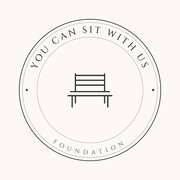
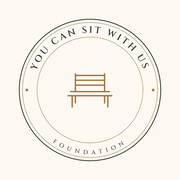
Adopt gold-accent seal (C1) across site
Claude-Session: https://claude.ai/code/session_013MXF8bArcGKn4r85BZznHa

diff --git a/index.html b/index.html
@@ -57,13 +57,13 @@
     <div class="wrap narrow symbol-inner">
       <svg class="seal seal-sym" viewBox="0 0 600 600" role="img" aria-label="You Can Sit With Us Foundation seal">
 <defs><path id="st-sym" d="M 88 300 A 212 212 0 0 1 512 300"/><path id="sb-sym" d="M 62 300 A 238 238 0 0 0 538 300"/></defs>
-<circle cx="300" cy="300" r="262" fill="none" stroke="currentColor" stroke-width="2.5"/>
-<circle cx="300" cy="300" r="250" fill="none" stroke="currentColor" stroke-width="1" opacity=".6"/>
-<circle cx="300" cy="300" r="196" fill="none" stroke="currentColor" stroke-width="1" opacity=".6"/>
-<text fill="currentColor" font-size="34" font-weight="500" letter-spacing="7"><textPath href="#st-sym" startOffset="50%" text-anchor="middle">YOU CAN SIT WITH US</textPath></text>
-<text fill="currentColor" font-size="22" letter-spacing="14"><textPath href="#sb-sym" startOffset="50%" text-anchor="middle">FOUNDATION</textPath></text>
-<circle cx="66" cy="300" r="4" fill="currentColor"/><circle cx="534" cy="300" r="4" fill="currentColor"/>
-<g transform="translate(204 228) scale(3)" fill="none" stroke="currentColor" stroke-width="1.5" stroke-linecap="round" stroke-linejoin="round"><path d="M14 4v22M50 4v22M14 6h36M14 12h36M14 18h36M8 26h48M5 31h54M10 31v14M54 31v14M14 31v9M50 31v9"/></g>
+<circle cx="300" cy="300" r="262" fill="none" stroke="currentColor" stroke-width="3"/>
+<circle cx="300" cy="300" r="250" fill="none" stroke="var(--seal-accent)" stroke-width="1.5"/>
+<circle cx="300" cy="300" r="196" fill="none" stroke="var(--seal-accent)" stroke-width="1.5"/>
+<text fill="currentColor" font-size="34" font-weight="600" letter-spacing="7"><textPath href="#st-sym" startOffset="50%" text-anchor="middle">YOU CAN SIT WITH US</textPath></text>
+<text fill="currentColor" font-size="22" font-weight="500" letter-spacing="14"><textPath href="#sb-sym" startOffset="50%" text-anchor="middle">FOUNDATION</textPath></text>
+<circle cx="66" cy="300" r="5" fill="var(--seal-accent)"/><circle cx="534" cy="300" r="5" fill="var(--seal-accent)"/>
+<g transform="translate(204 228) scale(3)" fill="none" stroke="var(--seal-accent)" stroke-width="1.7" stroke-linecap="round" stroke-linejoin="round"><path d="M14 4v22M50 4v22M14 6h36M14 12h36M14 18h36M8 26h48M5 31h54M10 31v14M54 31v14M14 31v9M50 31v9"/></g>
 </svg>
       <p class="eyebrow">Our symbol</p>
       <h2>There&rsquo;s always room on the bench.</h2>
@@ -139,13 +139,13 @@
     <div>
       <a class="brand-seal" href="index.html" aria-label="You Can Sit With Us Foundation home"><svg class="seal seal-foot" viewBox="0 0 600 600" role="img" aria-label="You Can Sit With Us Foundation seal">
 <defs><path id="st-foot" d="M 88 300 A 212 212 0 0 1 512 300"/><path id="sb-foot" d="M 62 300 A 238 238 0 0 0 538 300"/></defs>
-<circle cx="300" cy="300" r="262" fill="none" stroke="currentColor" stroke-width="2.5"/>
-<circle cx="300" cy="300" r="250" fill="none" stroke="currentColor" stroke-width="1" opacity=".6"/>
-<circle cx="300" cy="300" r="196" fill="none" stroke="currentColor" stroke-width="1" opacity=".6"/>
-<text fill="currentColor" font-size="34" font-weight="500" letter-spacing="7"><textPath href="#st-foot" startOffset="50%" text-anchor="middle">YOU CAN SIT WITH US</textPath></text>
-<text fill="currentColor" font-size="22" letter-spacing="14"><textPath href="#sb-foot" startOffset="50%" text-anchor="middle">FOUNDATION</textPath></text>
-<circle cx="66" cy="300" r="4" fill="currentColor"/><circle cx="534" cy="300" r="4" fill="currentColor"/>
-<g transform="translate(204 228) scale(3)" fill="none" stroke="currentColor" stroke-width="1.5" stroke-linecap="round" stroke-linejoin="round"><path d="M14 4v22M50 4v22M14 6h36M14 12h36M14 18h36M8 26h48M5 31h54M10 31v14M54 31v14M14 31v9M50 31v9"/></g>
+<circle cx="300" cy="300" r="262" fill="none" stroke="currentColor" stroke-width="3"/>
+<circle cx="300" cy="300" r="250" fill="none" stroke="var(--seal-accent)" stroke-width="1.5"/>
+<circle cx="300" cy="300" r="196" fill="none" stroke="var(--seal-accent)" stroke-width="1.5"/>
+<text fill="currentColor" font-size="34" font-weight="600" letter-spacing="7"><textPath href="#st-foot" startOffset="50%" text-anchor="middle">YOU CAN SIT WITH US</textPath></text>
+<text fill="currentColor" font-size="22" font-weight="500" letter-spacing="14"><textPath href="#sb-foot" startOffset="50%" text-anchor="middle">FOUNDATION</textPath></text>
+<circle cx="66" cy="300" r="5" fill="var(--seal-accent)"/><circle cx="534" cy="300" r="5" fill="var(--seal-accent)"/>
+<g transform="translate(204 228) scale(3)" fill="none" stroke="var(--seal-accent)" stroke-width="1.7" stroke-linecap="round" stroke-linejoin="round"><path d="M14 4v22M50 4v22M14 6h36M14 12h36M14 18h36M8 26h48M5 31h54M10 31v14M54 31v14M14 31v9M50 31v9"/></g>
 </svg></a>
       <p class="muted">Because everyone deserves a seat at the table.</p>
     </div>

diff --git a/404.html b/404.html
@@ -52,13 +52,13 @@
     <div>
       <a class="brand-seal" href="index.html" aria-label="You Can Sit With Us Foundation home"><svg class="seal seal-foot" viewBox="0 0 600 600" role="img" aria-label="You Can Sit With Us Foundation seal">
 <defs><path id="st-foot" d="M 88 300 A 212 212 0 0 1 512 300"/><path id="sb-foot" d="M 62 300 A 238 238 0 0 0 538 300"/></defs>
-<circle cx="300" cy="300" r="262" fill="none" stroke="currentColor" stroke-width="2.5"/>
-<circle cx="300" cy="300" r="250" fill="none" stroke="currentColor" stroke-width="1" opacity=".6"/>
-<circle cx="300" cy="300" r="196" fill="none" stroke="currentColor" stroke-width="1" opacity=".6"/>
-<text fill="currentColor" font-size="34" font-weight="500" letter-spacing="7"><textPath href="#st-foot" startOffset="50%" text-anchor="middle">YOU CAN SIT WITH US</textPath></text>
-<text fill="currentColor" font-size="22" letter-spacing="14"><textPath href="#sb-foot" startOffset="50%" text-anchor="middle">FOUNDATION</textPath></text>
-<circle cx="66" cy="300" r="4" fill="currentColor"/><circle cx="534" cy="300" r="4" fill="currentColor"/>
-<g transform="translate(204 228) scale(3)" fill="none" stroke="currentColor" stroke-width="1.5" stroke-linecap="round" stroke-linejoin="round"><path d="M14 4v22M50 4v22M14 6h36M14 12h36M14 18h36M8 26h48M5 31h54M10 31v14M54 31v14M14 31v9M50 31v9"/></g>
+<circle cx="300" cy="300" r="262" fill="none" stroke="currentColor" stroke-width="3"/>
+<circle cx="300" cy="300" r="250" fill="none" stroke="var(--seal-accent)" stroke-width="1.5"/>
+<circle cx="300" cy="300" r="196" fill="none" stroke="var(--seal-accent)" stroke-width="1.5"/>
+<text fill="currentColor" font-size="34" font-weight="600" letter-spacing="7"><textPath href="#st-foot" startOffset="50%" text-anchor="middle">YOU CAN SIT WITH US</textPath></text>
+<text fill="currentColor" font-size="22" font-weight="500" letter-spacing="14"><textPath href="#sb-foot" startOffset="50%" text-anchor="middle">FOUNDATION</textPath></text>
+<circle cx="66" cy="300" r="5" fill="var(--seal-accent)"/><circle cx="534" cy="300" r="5" fill="var(--seal-accent)"/>
+<g transform="translate(204 228) scale(3)" fill="none" stroke="var(--seal-accent)" stroke-width="1.7" stroke-linecap="round" stroke-linejoin="round"><path d="M14 4v22M50 4v22M14 6h36M14 12h36M14 18h36M8 26h48M5 31h54M10 31v14M54 31v14M14 31v9M50 31v9"/></g>
 </svg></a>
       <p class="muted">Because everyone deserves a seat at the table.</p>
     </div>

diff --git a/about.html b/about.html
@@ -94,13 +94,13 @@
     <div>
       <a class="brand-seal" href="index.html" aria-label="You Can Sit With Us Foundation home"><svg class="seal seal-foot" viewBox="0 0 600 600" role="img" aria-label="You Can Sit With Us Foundation seal">
 <defs><path id="st-foot" d="M 88 300 A 212 212 0 0 1 512 300"/><path id="sb-foot" d="M 62 300 A 238 238 0 0 0 538 300"/></defs>
-<circle cx="300" cy="300" r="262" fill="none" stroke="currentColor" stroke-width="2.5"/>
-<circle cx="300" cy="300" r="250" fill="none" stroke="currentColor" stroke-width="1" opacity=".6"/>
-<circle cx="300" cy="300" r="196" fill="none" stroke="currentColor" stroke-width="1" opacity=".6"/>
-<text fill="currentColor" font-size="34" font-weight="500" letter-spacing="7"><textPath href="#st-foot" startOffset="50%" text-anchor="middle">YOU CAN SIT WITH US</textPath></text>
-<text fill="currentColor" font-size="22" letter-spacing="14"><textPath href="#sb-foot" startOffset="50%" text-anchor="middle">FOUNDATION</textPath></text>
-<circle cx="66" cy="300" r="4" fill="currentColor"/><circle cx="534" cy="300" r="4" fill="currentColor"/>
-<g transform="translate(204 228) scale(3)" fill="none" stroke="currentColor" stroke-width="1.5" stroke-linecap="round" stroke-linejoin="round"><path d="M14 4v22M50 4v22M14 6h36M14 12h36M14 18h36M8 26h48M5 31h54M10 31v14M54 31v14M14 31v9M50 31v9"/></g>
+<circle cx="300" cy="300" r="262" fill="none" stroke="currentColor" stroke-width="3"/>
+<circle cx="300" cy="300" r="250" fill="none" stroke="var(--seal-accent)" stroke-width="1.5"/>
+<circle cx="300" cy="300" r="196" fill="none" stroke="var(--seal-accent)" stroke-width="1.5"/>
+<text fill="currentColor" font-size="34" font-weight="600" letter-spacing="7"><textPath href="#st-foot" startOffset="50%" text-anchor="middle">YOU CAN SIT WITH US</textPath></text>
+<text fill="currentColor" font-size="22" font-weight="500" letter-spacing="14"><textPath href="#sb-foot" startOffset="50%" text-anchor="middle">FOUNDATION</textPath></text>
+<circle cx="66" cy="300" r="5" fill="var(--seal-accent)"/><circle cx="534" cy="300" r="5" fill="var(--seal-accent)"/>
+<g transform="translate(204 228) scale(3)" fill="none" stroke="var(--seal-accent)" stroke-width="1.7" stroke-linecap="round" stroke-linejoin="round"><path d="M14 4v22M50 4v22M14 6h36M14 12h36M14 18h36M8 26h48M5 31h54M10 31v14M54 31v14M14 31v9M50 31v9"/></g>
 </svg></a>
       <p class="muted">Because everyone deserves a seat at the table.</p>
     </div>

diff --git a/contact.html b/contact.html
@@ -67,13 +67,13 @@
     <div>
       <a class="brand-seal" href="index.html" aria-label="You Can Sit With Us Foundation home"><svg class="seal seal-foot" viewBox="0 0 600 600" role="img" aria-label="You Can Sit With Us Foundation seal">
 <defs><path id="st-foot" d="M 88 300 A 212 212 0 0 1 512 300"/><path id="sb-foot" d="M 62 300 A 238 238 0 0 0 538 300"/></defs>
-<circle cx="300" cy="300" r="262" fill="none" stroke="currentColor" stroke-width="2.5"/>
-<circle cx="300" cy="300" r="250" fill="none" stroke="currentColor" stroke-width="1" opacity=".6"/>
-<circle cx="300" cy="300" r="196" fill="none" stroke="currentColor" stroke-width="1" opacity=".6"/>
-<text fill="currentColor" font-size="34" font-weight="500" letter-spacing="7"><textPath href="#st-foot" startOffset="50%" text-anchor="middle">YOU CAN SIT WITH US</textPath></text>
-<text fill="currentColor" font-size="22" letter-spacing="14"><textPath href="#sb-foot" startOffset="50%" text-anchor="middle">FOUNDATION</textPath></text>
-<circle cx="66" cy="300" r="4" fill="currentColor"/><circle cx="534" cy="300" r="4" fill="currentColor"/>
-<g transform="translate(204 228) scale(3)" fill="none" stroke="currentColor" stroke-width="1.5" stroke-linecap="round" stroke-linejoin="round"><path d="M14 4v22M50 4v22M14 6h36M14 12h36M14 18h36M8 26h48M5 31h54M10 31v14M54 31v14M14 31v9M50 31v9"/></g>
+<circle cx="300" cy="300" r="262" fill="none" stroke="currentColor" stroke-width="3"/>
+<circle cx="300" cy="300" r="250" fill="none" stroke="var(--seal-accent)" stroke-width="1.5"/>
+<circle cx="300" cy="300" r="196" fill="none" stroke="var(--seal-accent)" stroke-width="1.5"/>
+<text fill="currentColor" font-size="34" font-weight="600" letter-spacing="7"><textPath href="#st-foot" startOffset="50%" text-anchor="middle">YOU CAN SIT WITH US</textPath></text>
+<text fill="currentColor" font-size="22" font-weight="500" letter-spacing="14"><textPath href="#sb-foot" startOffset="50%" text-anchor="middle">FOUNDATION</textPath></text>
+<circle cx="66" cy="300" r="5" fill="var(--seal-accent)"/><circle cx="534" cy="300" r="5" fill="var(--seal-accent)"/>
+<g transform="translate(204 228) scale(3)" fill="none" stroke="var(--seal-accent)" stroke-width="1.7" stroke-linecap="round" stroke-linejoin="round"><path d="M14 4v22M50 4v22M14 6h36M14 12h36M14 18h36M8 26h48M5 31h54M10 31v14M54 31v14M14 31v9M50 31v9"/></g>
 </svg></a>
       <p class="muted">Because everyone deserves a seat at the table.</p>
     </div>

diff --git a/donate.html b/donate.html
@@ -70,13 +70,13 @@
     <div>
       <a class="brand-seal" href="index.html" aria-label="You Can Sit With Us Foundation home"><svg class="seal seal-foot" viewBox="0 0 600 600" role="img" aria-label="You Can Sit With Us Foundation seal">
 <defs><path id="st-foot" d="M 88 300 A 212 212 0 0 1 512 300"/><path id="sb-foot" d="M 62 300 A 238 238 0 0 0 538 300"/></defs>
-<circle cx="300" cy="300" r="262" fill="none" stroke="currentColor" stroke-width="2.5"/>
-<circle cx="300" cy="300" r="250" fill="none" stroke="currentColor" stroke-width="1" opacity=".6"/>
-<circle cx="300" cy="300" r="196" fill="none" stroke="currentColor" stroke-width="1" opacity=".6"/>
-<text fill="currentColor" font-size="34" font-weight="500" letter-spacing="7"><textPath href="#st-foot" startOffset="50%" text-anchor="middle">YOU CAN SIT WITH US</textPath></text>
-<text fill="currentColor" font-size="22" letter-spacing="14"><textPath href="#sb-foot" startOffset="50%" text-anchor="middle">FOUNDATION</textPath></text>
-<circle cx="66" cy="300" r="4" fill="currentColor"/><circle cx="534" cy="300" r="4" fill="currentColor"/>
-<g transform="translate(204 228) scale(3)" fill="none" stroke="currentColor" stroke-width="1.5" stroke-linecap="round" stroke-linejoin="round"><path d="M14 4v22M50 4v22M14 6h36M14 12h36M14 18h36M8 26h48M5 31h54M10 31v14M54 31v14M14 31v9M50 31v9"/></g>
+<circle cx="300" cy="300" r="262" fill="none" stroke="currentColor" stroke-width="3"/>
+<circle cx="300" cy="300" r="250" fill="none" stroke="var(--seal-accent)" stroke-width="1.5"/>
+<circle cx="300" cy="300" r="196" fill="none" stroke="var(--seal-accent)" stroke-width="1.5"/>
+<text fill="currentColor" font-size="34" font-weight="600" letter-spacing="7"><textPath href="#st-foot" startOffset="50%" text-anchor="middle">YOU CAN SIT WITH US</textPath></text>
+<text fill="currentColor" font-size="22" font-weight="500" letter-spacing="14"><textPath href="#sb-foot" startOffset="50%" text-anchor="middle">FOUNDATION</textPath></text>
+<circle cx="66" cy="300" r="5" fill="var(--seal-accent)"/><circle cx="534" cy="300" r="5" fill="var(--seal-accent)"/>
+<g transform="translate(204 228) scale(3)" fill="none" stroke="var(--seal-accent)" stroke-width="1.7" stroke-linecap="round" stroke-linejoin="round"><path d="M14 4v22M50 4v22M14 6h36M14 12h36M14 18h36M8 26h48M5 31h54M10 31v14M54 31v14M14 31v9M50 31v9"/></g>
 </svg></a>
       <p class="muted">Because everyone deserves a seat at the table.</p>
     </div>

diff --git a/get-involved.html b/get-involved.html
@@ -84,13 +84,13 @@
     <div>
       <a class="brand-seal" href="index.html" aria-label="You Can Sit With Us Foundation home"><svg class="seal seal-foot" viewBox="0 0 600 600" role="img" aria-label="You Can Sit With Us Foundation seal">
 <defs><path id="st-foot" d="M 88 300 A 212 212 0 0 1 512 300"/><path id="sb-foot" d="M 62 300 A 238 238 0 0 0 538 300"/></defs>
-<circle cx="300" cy="300" r="262" fill="none" stroke="currentColor" stroke-width="2.5"/>
-<circle cx="300" cy="300" r="250" fill="none" stroke="currentColor" stroke-width="1" opacity=".6"/>
-<circle cx="300" cy="300" r="196" fill="none" stroke="currentColor" stroke-width="1" opacity=".6"/>
-<text fill="currentColor" font-size="34" font-weight="500" letter-spacing="7"><textPath href="#st-foot" startOffset="50%" text-anchor="middle">YOU CAN SIT WITH US</textPath></text>
-<text fill="currentColor" font-size="22" letter-spacing="14"><textPath href="#sb-foot" startOffset="50%" text-anchor="middle">FOUNDATION</textPath></text>
-<circle cx="66" cy="300" r="4" fill="currentColor"/><circle cx="534" cy="300" r="4" fill="currentColor"/>
-<g transform="translate(204 228) scale(3)" fill="none" stroke="currentColor" stroke-width="1.5" stroke-linecap="round" stroke-linejoin="round"><path d="M14 4v22M50 4v22M14 6h36M14 12h36M14 18h36M8 26h48M5 31h54M10 31v14M54 31v14M14 31v9M50 31v9"/></g>
+<circle cx="300" cy="300" r="262" fill="none" stroke="currentColor" stroke-width="3"/>
+<circle cx="300" cy="300" r="250" fill="none" stroke="var(--seal-accent)" stroke-width="1.5"/>
+<circle cx="300" cy="300" r="196" fill="none" stroke="var(--seal-accent)" stroke-width="1.5"/>
+<text fill="currentColor" font-size="34" font-weight="600" letter-spacing="7"><textPath href="#st-foot" startOffset="50%" text-anchor="middle">YOU CAN SIT WITH US</textPath></text>
+<text fill="currentColor" font-size="22" font-weight="500" letter-spacing="14"><textPath href="#sb-foot" startOffset="50%" text-anchor="middle">FOUNDATION</textPath></text>
+<circle cx="66" cy="300" r="5" fill="var(--seal-accent)"/><circle cx="534" cy="300" r="5" fill="var(--seal-accent)"/>
+<g transform="translate(204 228) scale(3)" fill="none" stroke="var(--seal-accent)" stroke-width="1.7" stroke-linecap="round" stroke-linejoin="round"><path d="M14 4v22M50 4v22M14 6h36M14 12h36M14 18h36M8 26h48M5 31h54M10 31v14M54 31v14M14 31v9M50 31v9"/></g>
 </svg></a>
       <p class="muted">Because everyone deserves a seat at the table.</p>
     </div>

diff --git a/programs.html b/programs.html
@@ -88,13 +88,13 @@
     <div>
       <a class="brand-seal" href="index.html" aria-label="You Can Sit With Us Foundation home"><svg class="seal seal-foot" viewBox="0 0 600 600" role="img" aria-label="You Can Sit With Us Foundation seal">
 <defs><path id="st-foot" d="M 88 300 A 212 212 0 0 1 512 300"/><path id="sb-foot" d="M 62 300 A 238 238 0 0 0 538 300"/></defs>
-<circle cx="300" cy="300" r="262" fill="none" stroke="currentColor" stroke-width="2.5"/>
-<circle cx="300" cy="300" r="250" fill="none" stroke="currentColor" stroke-width="1" opacity=".6"/>
-<circle cx="300" cy="300" r="196" fill="none" stroke="currentColor" stroke-width="1" opacity=".6"/>
-<text fill="currentColor" font-size="34" font-weight="500" letter-spacing="7"><textPath href="#st-foot" startOffset="50%" text-anchor="middle">YOU CAN SIT WITH US</textPath></text>
-<text fill="currentColor" font-size="22" letter-spacing="14"><textPath href="#sb-foot" startOffset="50%" text-anchor="middle">FOUNDATION</textPath></text>
-<circle cx="66" cy="300" r="4" fill="currentColor"/><circle cx="534" cy="300" r="4" fill="currentColor"/>
-<g transform="translate(204 228) scale(3)" fill="none" stroke="currentColor" stroke-width="1.5" stroke-linecap="round" stroke-linejoin="round"><path d="M14 4v22M50 4v22M14 6h36M14 12h36M14 18h36M8 26h48M5 31h54M10 31v14M54 31v14M14 31v9M50 31v9"/></g>
+<circle cx="300" cy="300" r="262" fill="none" stroke="currentColor" stroke-width="3"/>
+<circle cx="300" cy="300" r="250" fill="none" stroke="var(--seal-accent)" stroke-width="1.5"/>
+<circle cx="300" cy="300" r="196" fill="none" stroke="var(--seal-accent)" stroke-width="1.5"/>
+<text fill="currentColor" font-size="34" font-weight="600" letter-spacing="7"><textPath href="#st-foot" startOffset="50%" text-anchor="middle">YOU CAN SIT WITH US</textPath></text>
+<text fill="currentColor" font-size="22" font-weight="500" letter-spacing="14"><textPath href="#sb-foot" startOffset="50%" text-anchor="middle">FOUNDATION</textPath></text>
+<circle cx="66" cy="300" r="5" fill="var(--seal-accent)"/><circle cx="534" cy="300" r="5" fill="var(--seal-accent)"/>
+<g transform="translate(204 228) scale(3)" fill="none" stroke="var(--seal-accent)" stroke-width="1.7" stroke-linecap="round" stroke-linejoin="round"><path d="M14 4v22M50 4v22M14 6h36M14 12h36M14 18h36M8 26h48M5 31h54M10 31v14M54 31v14M14 31v9M50 31v9"/></g>
 </svg></a>
       <p class="muted">Because everyone deserves a seat at the table.</p>
     </div>

diff --git a/css/styles.css b/css/styles.css
@@ -3,7 +3,8 @@
 :root {
   --navy: #2D372B;
   --navy-strong: #1E261D;
-  --coral: #8A6F47;
+  --coral: #9C7A45;
+  --seal-accent: #9C7A45;
   --coral-strong: #6F5836;
   --gold: #C8B58A;
   --sky: #A9B8A0;
@@ -255,7 +256,7 @@ footer.site .muted { color: rgba(255,255,255,.6); }
 .stats strong { display: block; font-family: var(--serif); font-size: 2.6rem; line-height: 1; color: var(--navy); }
 .stats span { font-size: .8rem; letter-spacing: .14em; text-transform: uppercase; color: var(--muted); }
 .brand { gap: .75rem; }
-.bench { width: 2.6rem; height: auto; color: var(--navy); flex: none; }
+.bench { width: 2.6rem; height: auto; color: var(--coral); flex: none; }
 .brand-footer .bench { color: var(--cream); width: 3rem; }
 @media (max-width: 400px) { .bench { width: 2.1rem; } .wm-top { font-size: 1rem; } }
 .symbol { text-align: center; padding-block: clamp(3.5rem, 8vw, 6rem); }
@@ -268,3 +269,5 @@ footer.site .muted { color: rgba(255,255,255,.6); }
 .seal-sym { width: min(300px, 80vw); height: auto; margin-bottom: 1.6rem; }
 .brand-seal { display: inline-block; color: var(--cream); margin-bottom: 1rem; }
 .seal-foot { width: 132px; height: auto; color: var(--cream); }
+
+.seal-foot { --seal-accent: #C8A86E; }

diff --git a/tools/build.py b/tools/build.py
@@ -18,13 +18,13 @@ LOGO = """<svg class="bench" viewBox="0 0 64 48" fill="none" stroke="currentColo
 def SEAL(uid, cls="seal"):
     return f"""<svg class="{cls}" viewBox="0 0 600 600" role="img" aria-label="You Can Sit With Us Foundation seal">
 <defs><path id="st-{uid}" d="M 88 300 A 212 212 0 0 1 512 300"/><path id="sb-{uid}" d="M 62 300 A 238 238 0 0 0 538 300"/></defs>
-<circle cx="300" cy="300" r="262" fill="none" stroke="currentColor" stroke-width="2.5"/>
-<circle cx="300" cy="300" r="250" fill="none" stroke="currentColor" stroke-width="1" opacity=".6"/>
-<circle cx="300" cy="300" r="196" fill="none" stroke="currentColor" stroke-width="1" opacity=".6"/>
-<text fill="currentColor" font-size="34" font-weight="500" letter-spacing="7"><textPath href="#st-{uid}" startOffset="50%" text-anchor="middle">YOU CAN SIT WITH US</textPath></text>
-<text fill="currentColor" font-size="22" letter-spacing="14"><textPath href="#sb-{uid}" startOffset="50%" text-anchor="middle">FOUNDATION</textPath></text>
-<circle cx="66" cy="300" r="4" fill="currentColor"/><circle cx="534" cy="300" r="4" fill="currentColor"/>
-<g transform="translate(204 228) scale(3)" fill="none" stroke="currentColor" stroke-width="1.5" stroke-linecap="round" stroke-linejoin="round"><path d="M14 4v22M50 4v22M14 6h36M14 12h36M14 18h36M8 26h48M5 31h54M10 31v14M54 31v14M14 31v9M50 31v9"/></g>
+<circle cx="300" cy="300" r="262" fill="none" stroke="currentColor" stroke-width="3"/>
+<circle cx="300" cy="300" r="250" fill="none" stroke="var(--seal-accent)" stroke-width="1.5"/>
+<circle cx="300" cy="300" r="196" fill="none" stroke="var(--seal-accent)" stroke-width="1.5"/>
+<text fill="currentColor" font-size="34" font-weight="600" letter-spacing="7"><textPath href="#st-{uid}" startOffset="50%" text-anchor="middle">YOU CAN SIT WITH US</textPath></text>
+<text fill="currentColor" font-size="22" font-weight="500" letter-spacing="14"><textPath href="#sb-{uid}" startOffset="50%" text-anchor="middle">FOUNDATION</textPath></text>
+<circle cx="66" cy="300" r="5" fill="var(--seal-accent)"/><circle cx="534" cy="300" r="5" fill="var(--seal-accent)"/>
+<g transform="translate(204 228) scale(3)" fill="none" stroke="var(--seal-accent)" stroke-width="1.7" stroke-linecap="round" stroke-linejoin="round"><path d="M14 4v22M50 4v22M14 6h36M14 12h36M14 18h36M8 26h48M5 31h54M10 31v14M54 31v14M14 31v9M50 31v9"/></g>
 </svg>"""
 
 
